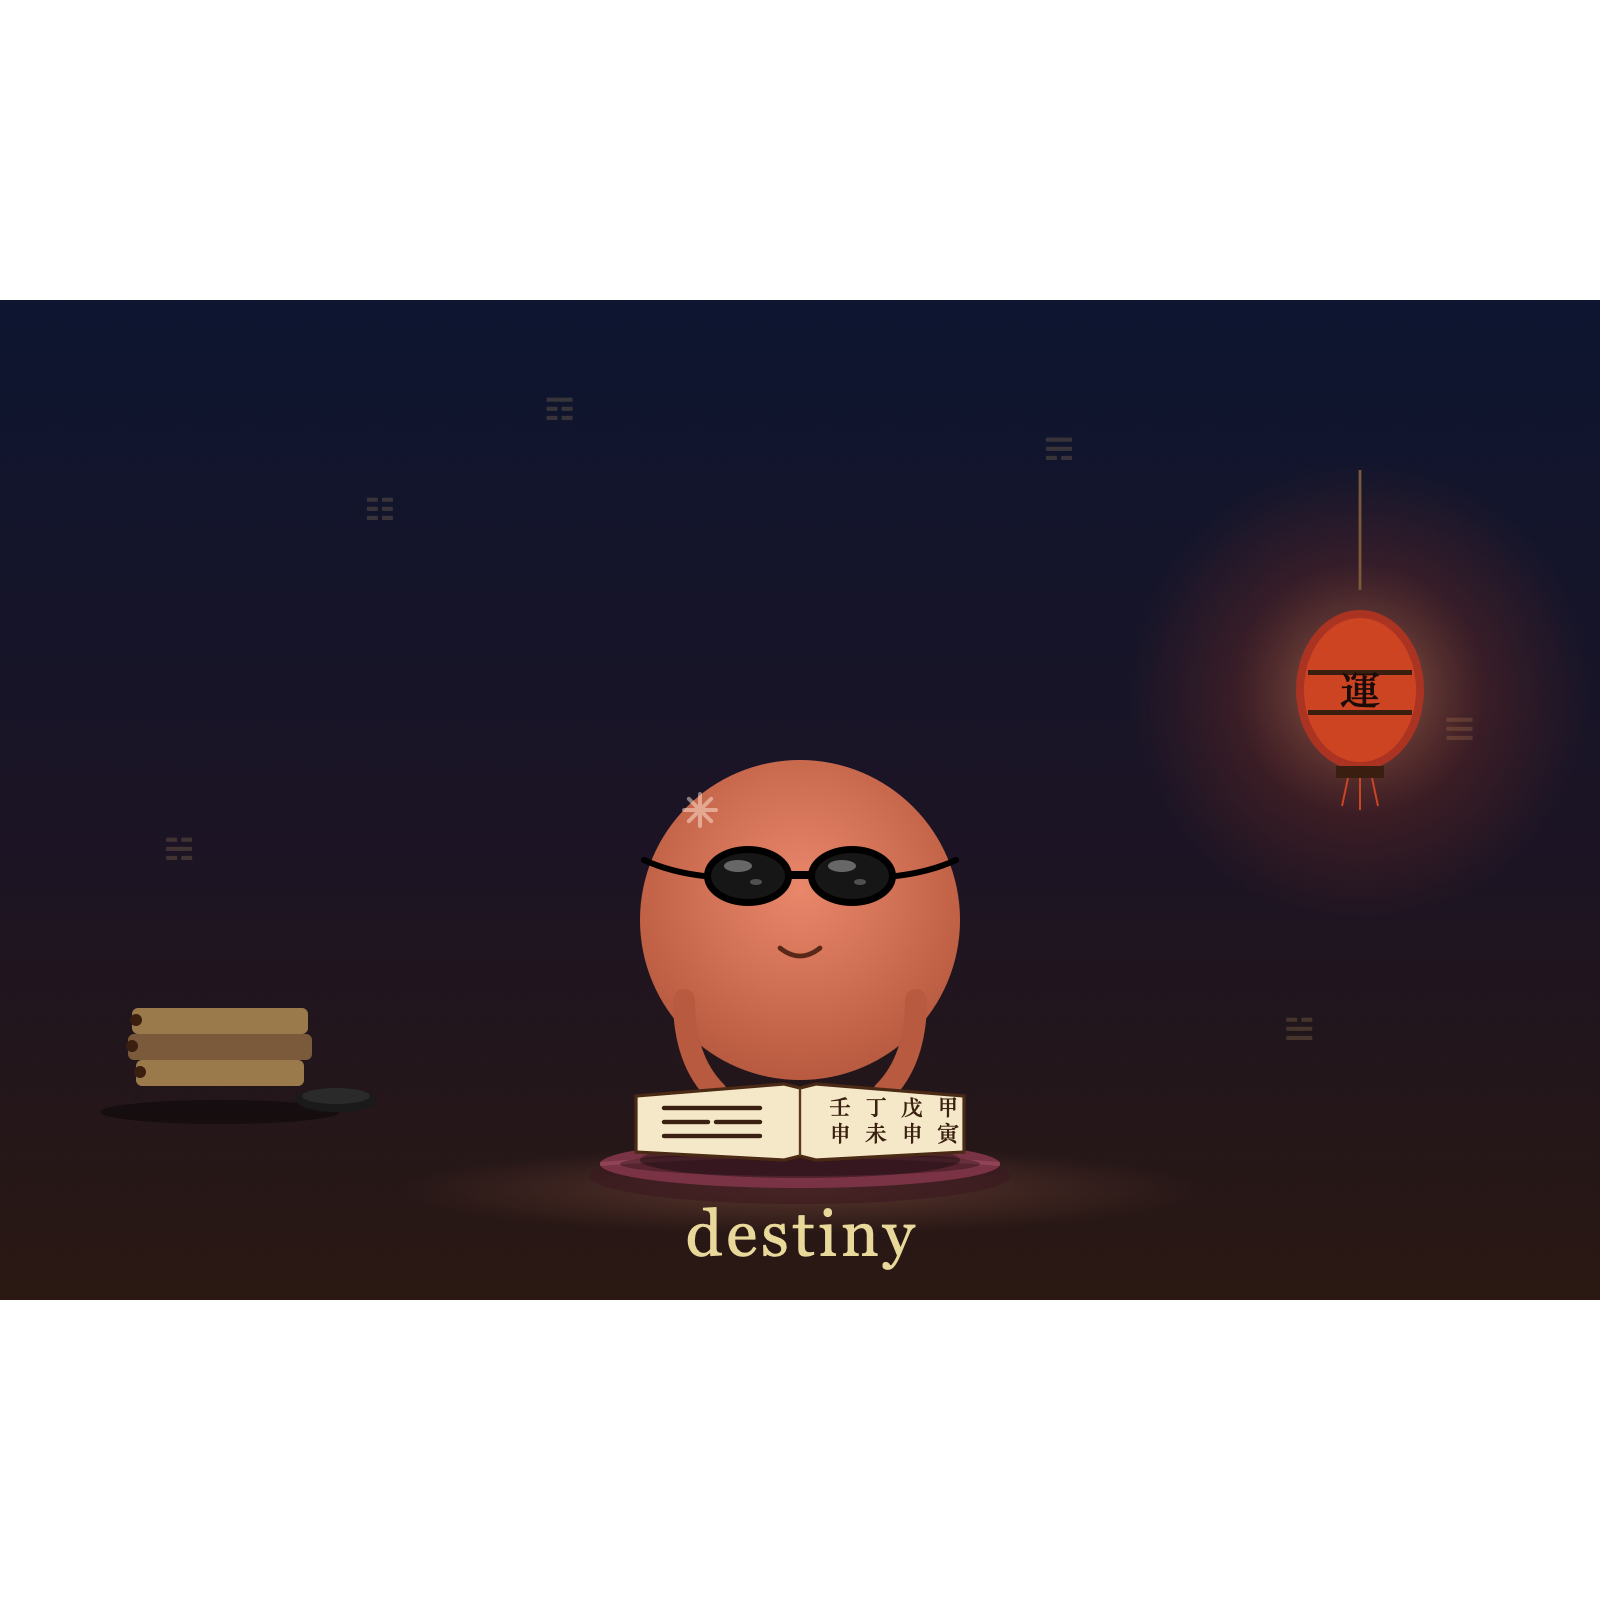
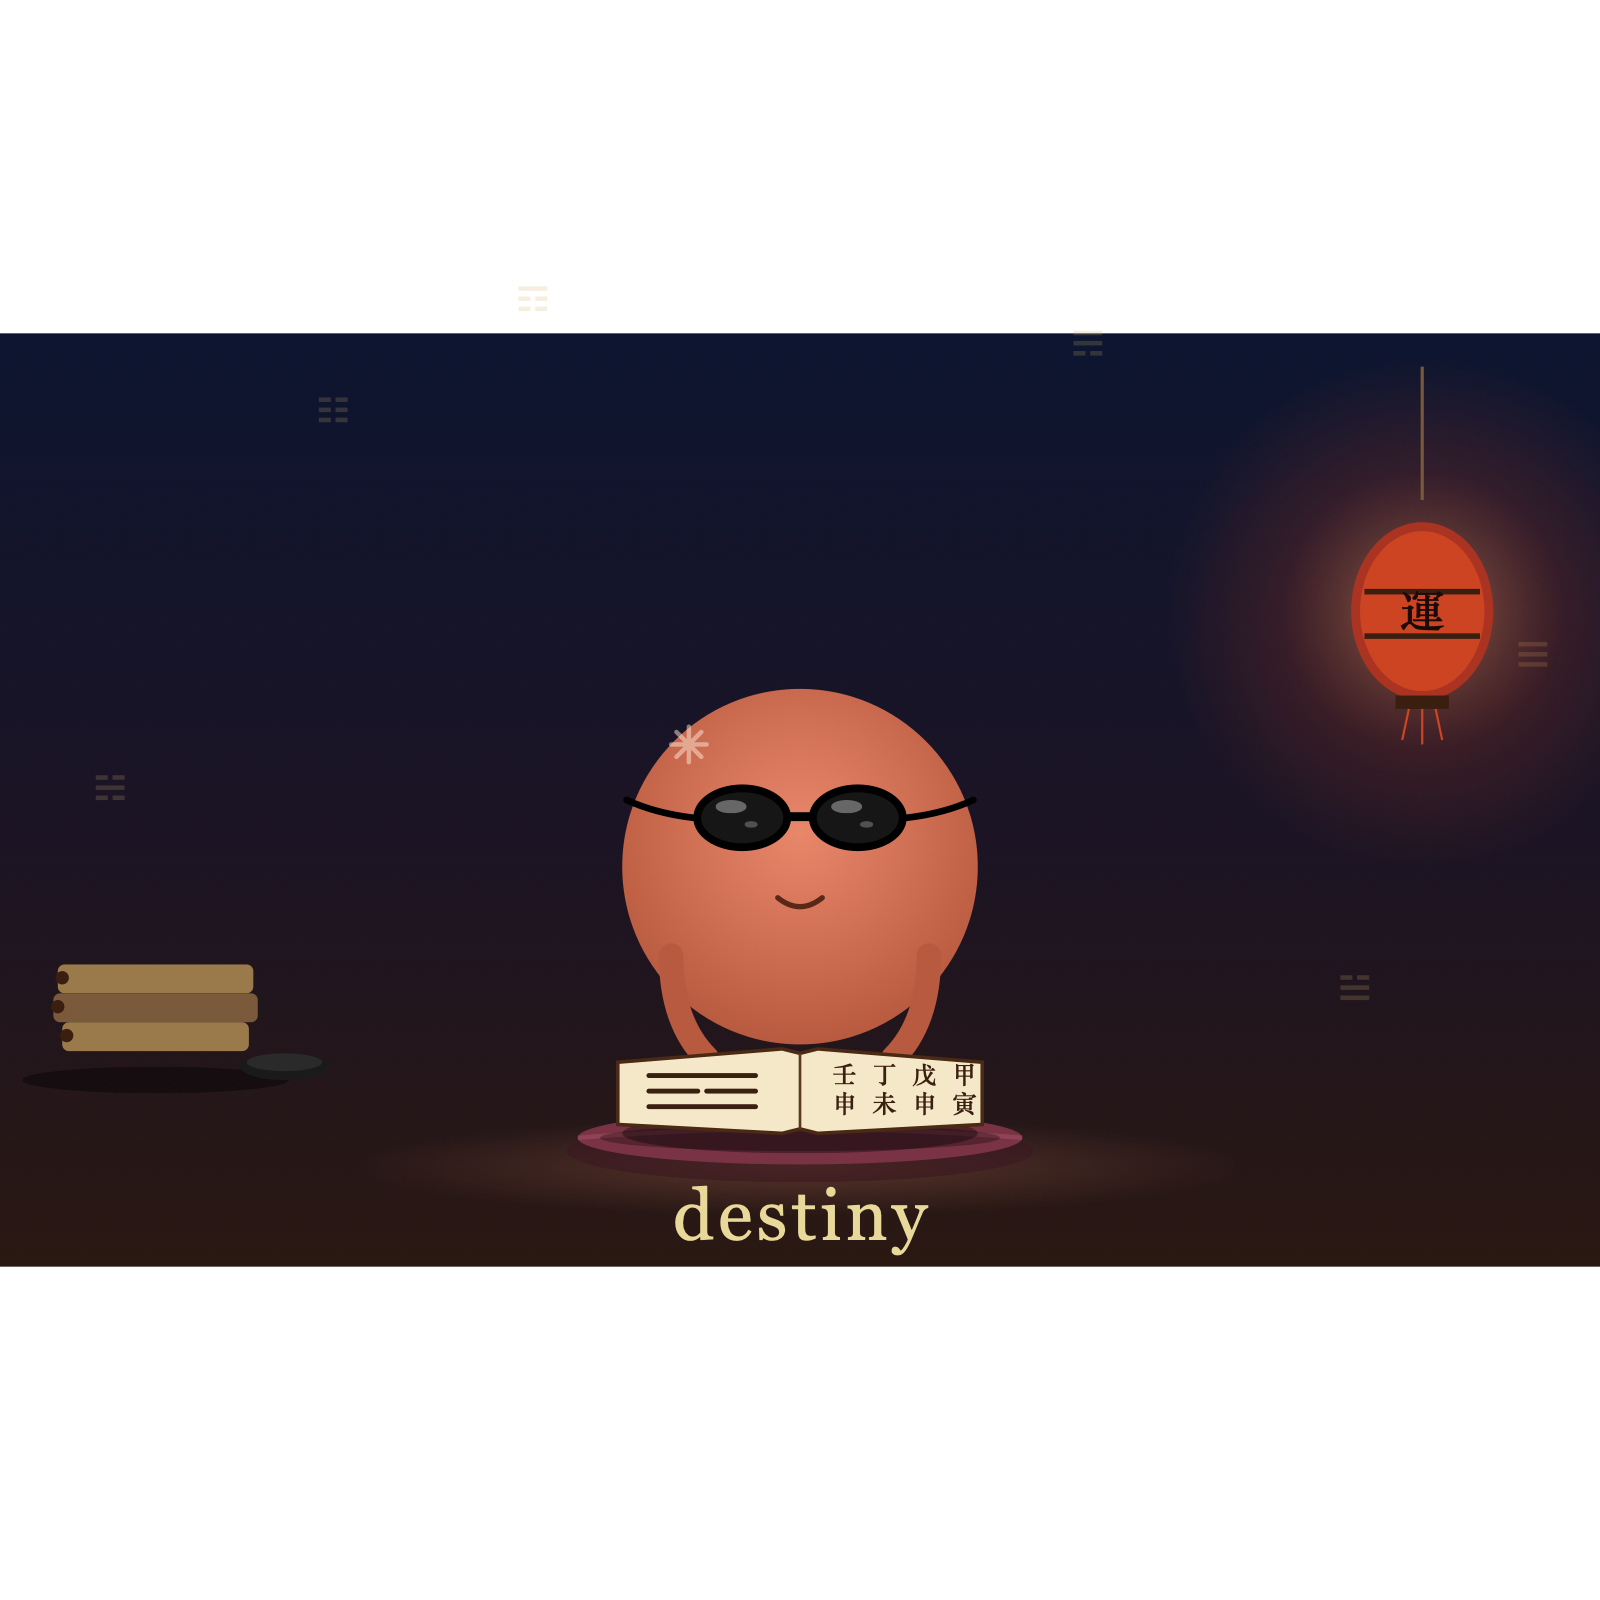
README: pure English with concept primer; tighter hero crop
- Tighten hero.svg viewBox from 800x500 to 720x420 (cropping out
  empty navy space top/left/right around the mascot+lantern+book
  composition). Re-render the PNG to match.
- Rewrite README in pure English. Replace 사주/주역/만세력 and other
  CJK / 명리 jargon with English equivalents and add a short
  "How it works in 60 seconds" section explaining the three pillars
  of the system: the Four Pillars birth chart, the perpetual lunar
  calendar engine, and the I-Ching plum-blossom time divination.
- Keep the transparency table separating computed-vs-LLM-generated
  content so readers can see exactly which numbers are verifiable.

diff --git a/README.md b/README.md
@@ -19,7 +19,7 @@
 /destiny
 ```
 
-That's it. The first call asks for your birth date, time, city, and gender — once. Every call after is one word: `/destiny`.
+That's it. The first call asks for your birth date, time, city, and gender — once. Every call after is just `/destiny`.
 
 ## How it flows
 
@@ -33,42 +33,54 @@ destiny plugin            ← installed once via /plugin install
 /destiny skill            ← invoked any time
    │
    ▼
-your birth info           ← asked once, saved to ~/.destiny/profile.json
+your birth date           ← asked once, saved to ~/.destiny/profile.json
    │
    ▼
-destiny of the day        ← personalized reading: today's fortune + life reading
+destiny of the day        ← personalized: today's fortune + life reading
 ```
 
 ## What you get
 
 Each `/destiny` produces a two-section reading:
 
-**🔮 Today's Fortune** — a short prose reading of today against your chart, with five-category stars (overall, love, money, career, health), a hexagram drawn for this moment, and lucky number / color / direction.
+**🔮 Today's Fortune** — a short prose reading of today against your birth chart, with five-category stars (overall, love, money, career, health), a hexagram drawn for this moment, and a lucky number / color / direction.
 
-**🌌 Life Reading** — your character, the broad arc of your life, and where you are in the current 10-year period. Plain language, no untranslated jargon.
+**🌌 Life Reading** — your character, the broad arc of your life, and where you are in your current 10-year period. Plain language, no untranslated jargon.
 
-## What's actually computed (vs. invented)
+## How it works (the principles in 60 seconds)
+
+This skill uses three pieces of classical East Asian metaphysics, each computed deterministically from your birth date and time:
+
+- **Four Pillars (the eight-character birth chart)** — Your year, month, day, and hour of birth each map to a pair of Chinese characters (one "Heavenly Stem" + one "Earthly Branch") drawn from a 60-cycle calendar that has run continuously for over two millennia. The eight characters together describe your "elemental fingerprint": which of the five elements (Wood / Fire / Earth / Metal / Water) dominate, which are missing, and how they relate. The character of your day-of-birth is your "core self".
+
+- **Perpetual lunar calendar** — The engine that converts solar dates to the eight characters. It handles solar terms (the 24 climate divisions of the year), lunar/solar conversion, true-solar-time correction by birthplace longitude, and Korean Daylight Saving for births in 1987–88. Equivalent to the calendar published by Korea's national astronomical observatory.
+
+- **The I-Ching (Book of Changes)** — A 3,000-year-old divination system of 64 hexagrams. We draw one hexagram for the present moment using *plum-blossom time divination* — an algorithm by the Song-dynasty scholar Shao Yong that derives the hexagram from the current lunar date and hour. Hexagram texts are from James Legge's 1899 public-domain translation.
+
+The skill computes today's "day pillar" the same way and analyzes its relationship with your birth chart — five-element generation/control cycles, branch harmonies and clashes — to produce the reading.
+
+## What's actually computed (vs. interpreted by Claude)
 
 | Layer | Source |
 |---|---|
-| 사주 8 characters from your birth | `lunar-python` (real 만세력, equivalent to KASI national calendar) |
-| True solar time correction | longitude offset from KST (1° = 4 min) |
-| Korean DST handling (1987–88) | auto |
-| Today's day pillar (일진) | `lunar-python` |
-| Five Elements + Ten Gods (십신) | classical 60-cycle lookup tables |
-| Branch interactions (합·충·형) | classical lookup tables |
-| I-Ching hexagram for the moment | 매화역수 시점법 (plum-blossom time divination) |
+| Your eight-character birth chart | [`lunar-python`](https://github.com/6tail/lunar-python) — pure-Python perpetual calendar |
+| True solar time correction | longitude offset from local standard time meridian (1° = 4 min) |
+| Korean DST handling (1987–88) | automatic |
+| Today's day pillar | `lunar-python` |
+| Five Elements + Ten Gods relationships | classical 60-cycle lookup tables |
+| Branch harmonies, clashes, punishments | classical lookup tables |
+| I-Ching hexagram for this moment | plum-blossom time divination |
 | Hexagram corpus | King Wen ordering, Legge (1899) public-domain translation |
-| Lucky number / color / direction | derived from your day master + hexagram |
-| **Star ratings + character + life arc + advice** | **Claude, applying classical 명리 knowledge to the data above** |
+| Lucky number / color / direction | derived from your day-of-birth's element + the hexagram |
+| **Star ratings, character sketch, life arc, today's advice** | **Claude, applying classical reading conventions to the data above** |
 
-Same person + same day = identical script output, every time. Only the prose phrasing changes.
+Same person + same day always produces identical script output. Only the prose phrasing changes between calls.
 
-No external APIs, no scraped sites. Everything runs locally.
+No external APIs. No scraped sites. Everything runs locally.
 
 ## Variants
 
-- `/destiny` — full reading (auto-loaded profile)
+- `/destiny` — full reading (auto-loads saved profile)
 - `/destiny today` — only today's fortune
 - `/destiny life` — only life reading
 - `/destiny reset` — delete saved profile and start over
@@ -78,14 +90,14 @@ No external APIs, no scraped sites. Everything runs locally.
 
 ## Why this exists
 
-Most fortune apps either (a) use real 만세력 calculation but hide proprietary interpretation rules behind a paywall, or (b) generate everything with an LLM and call it astrology. This skill keeps the deterministic part deterministic (you can verify your 사주 against any Korean 만세력 site) and lets Claude do what it's actually good at — applying classical 명리 reading conventions to that fixed data.
+Most fortune apps either (a) compute the chart correctly but lock interpretation behind a paywall, or (b) let an LLM hallucinate the whole thing and call it astrology. This skill keeps the deterministic part deterministic — you can verify your eight characters against any traditional calendar source — and lets Claude do what it's actually good at: applying centuries-old reading conventions to that fixed data.
 
-Default output is English with all 한자 / 명리 terms unpacked into plain language. A foreigner with zero exposure to 사주 should follow it. Korean output keeps the terse traditional terms.
+Default output is English with every classical term unpacked into plain language. A reader with zero exposure to East Asian astrology should follow it. Output switches to Korean / Japanese / Chinese / Spanish on request.
 
 ## Stack
 
 - Python 3.10+
-- [`lunar-python`](https://github.com/6tail/lunar-python) (MIT) — pure-Python lunar calendar engine
+- [`lunar-python`](https://github.com/6tail/lunar-python) (MIT) — pure-Python perpetual lunar calendar
 - I-Ching: King Wen ordering + Legge (1899) public-domain judgments
 - Claude Code plugin format
 
